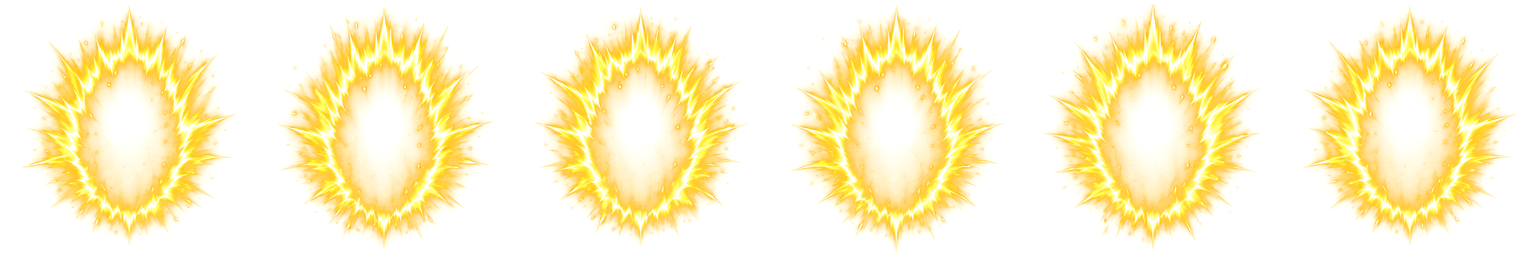
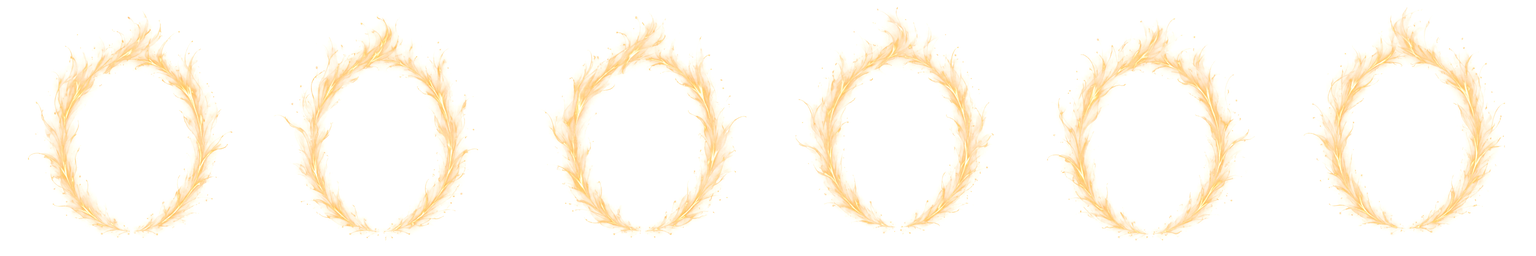
Aura do POW mais fina e discreta, sem borda interna marcada
Repintada pelo Codex: faixa fina de fios de luz dourada que nasce suave por dentro,
um pouco mais transparente e com o quadro mais lento no jogo (pedido do matheus).

diff --git a/src/game/powReadyAura.ts b/src/game/powReadyAura.ts
@@ -1,11 +1,11 @@
 import {freeImage} from './spriteCache';
 
 /**
- * POW ready (bar full, not yet used): an oval of golden energy spikes around the fighter that flickers and pulses, as in
+ * POW ready (bar full, not yet used): a thin oval of soft golden light strands around the fighter that flickers and pulses, as in
  * DDTank (matheus, 21/10/2026). Painted by Codex on black and cut by scripts/build-pow-aura.py into a strip of
  * FRAMES flicker frames of SIZE px with real alpha; the game only plays the strip and breathes its scale and light.
  */
-const SRC='/assets/combat/pow-ready-aura.png',FRAMES=6,SIZE=256,FRAME_MS=95;
+const SRC='/assets/combat/pow-ready-aura.png',FRAMES=6,SIZE=256,FRAME_MS=120;
 /** Drawn size around a 112 px combat fighter: wider than tall, so the oval holds the head and the body lying behind it. */
 const WIDTH=180,HEIGHT=150;
 let image:HTMLImageElement|undefined;
@@ -22,7 +22,7 @@ export function drawPowReadyAura(c:CanvasRenderingContext2D,x:number,y:number,ti
  const t=motionPreference?.matches?0:time,grow=Math.min(1,Math.max(0,(time-since)/260));
  const beat=Math.sin(t/300),scale=(.86+.14*grow)*(1+beat*.045),frame=Math.floor(t/FRAME_MS)%FRAMES;
  const w=WIDTH*scale,h=HEIGHT*scale,cx=x,cy=y-40;
- c.save();c.globalAlpha*=grow*(.82+beat*.18);
+ c.save();c.globalAlpha*=grow*(.8+beat*.15);
  c.drawImage(art,frame*SIZE,0,SIZE,SIZE,cx-w/2,cy-h/2,w,h);
  c.restore();
 }
